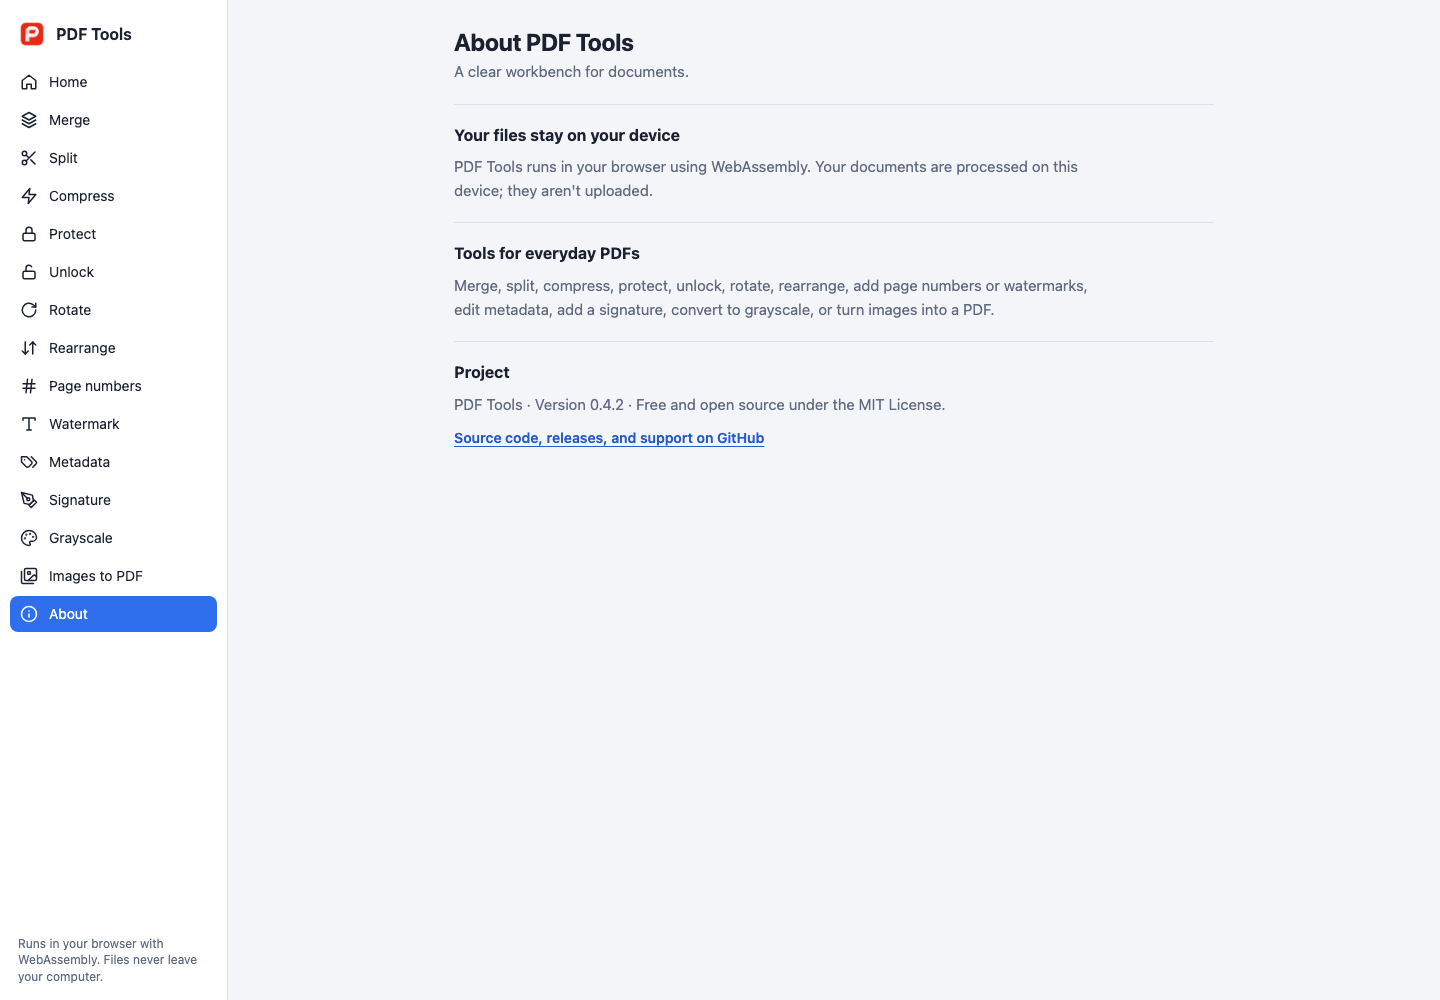
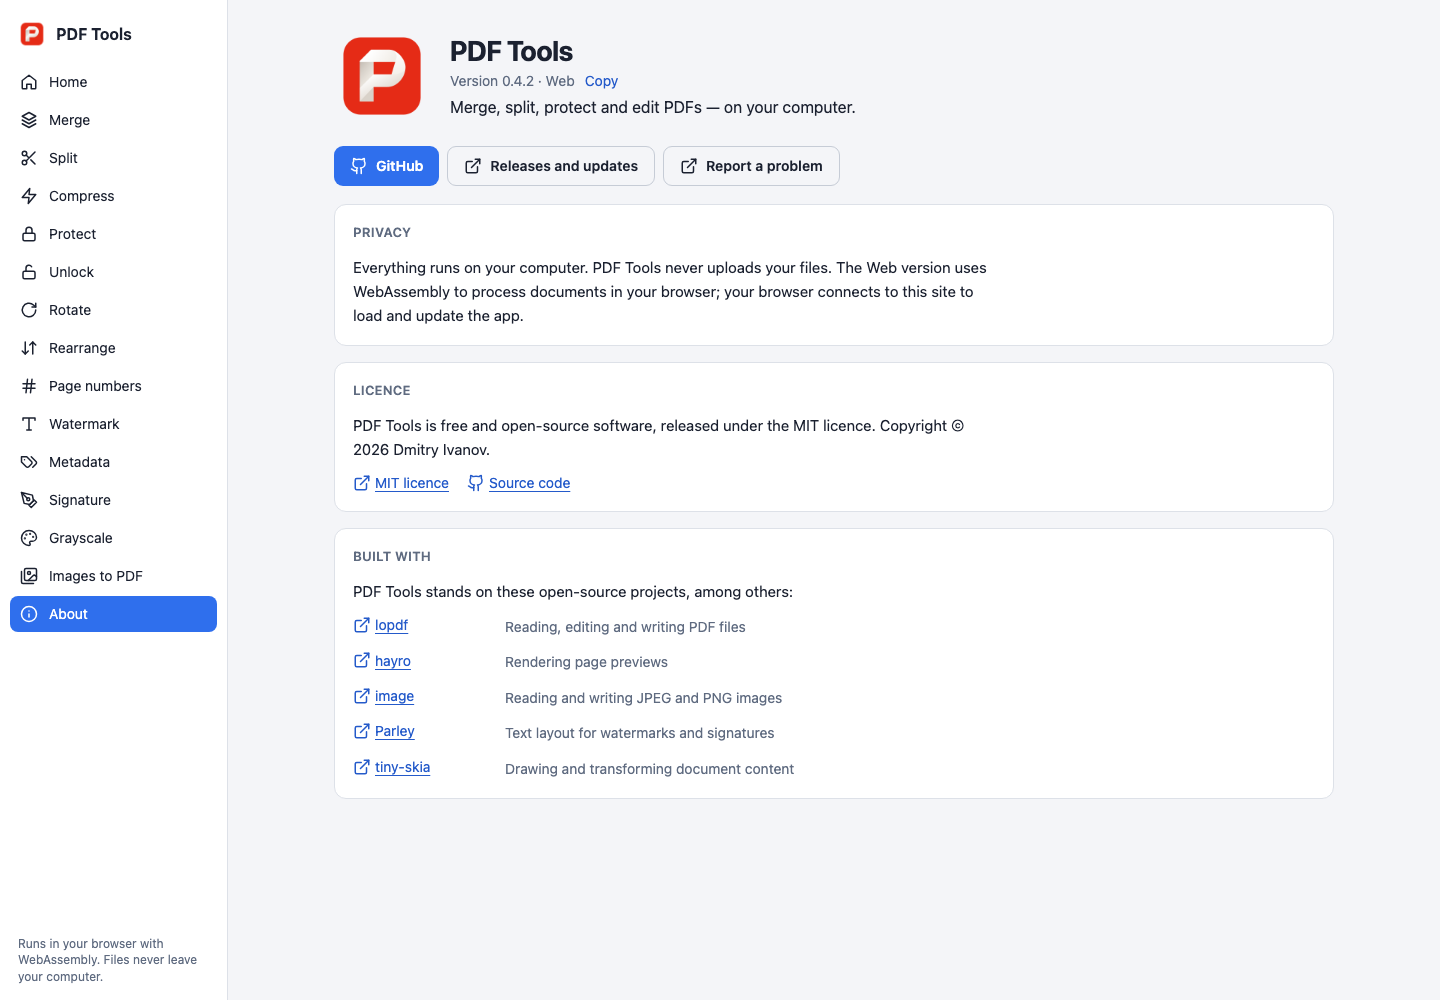
Align Web About with desktop

Changed region(s): [[0.25, 0.217, 0.75, 0.496], [0.2188, 0.031, 0.75, 0.217], [0.25, 0.589, 0.5625, 0.775]]

diff --git a/web/app.js b/web/app.js
@@ -64,24 +64,66 @@ function showAbout({ push = true } = {}) {
   current = null;
   currentPage = "about";
   setRoute(null, push, "about");
+  const copyText = `PDF Tools ${VERSION} (Web)`;
+  const copyStatus = h("span", { className: "about-copy-status", role: "status", "aria-live": "polite" });
+  const copyButton = h("button", {
+    type: "button",
+    className: "about-copy",
+    onClick: async () => {
+      try {
+        await navigator.clipboard.writeText(copyText);
+        copyButton.textContent = "Copied";
+        copyStatus.textContent = "Version copied to clipboard.";
+      } catch {
+        copyStatus.textContent = "Clipboard access isn't available in this browser.";
+      }
+    },
+  }, "Copy");
+  const externalLink = (label, url, iconName = "external") =>
+    h("a", { href: url, target: "_blank", rel: "noopener noreferrer" }, icon(iconName), label);
+  const credits = [
+    ["lopdf", "Reading, editing and writing PDF files", "https://crates.io/crates/lopdf"],
+    ["hayro", "Rendering page previews", "https://crates.io/crates/hayro"],
+    ["image", "Reading and writing JPEG and PNG images", "https://crates.io/crates/image"],
+    ["Parley", "Text layout for watermarks and signatures", "https://crates.io/crates/parley"],
+    ["tiny-skia", "Drawing and transforming document content", "https://crates.io/crates/tiny-skia"],
+  ];
   main.replaceChildren(
     h("article", { className: "about" },
-      h("header", { className: "page-head" },
-        h("h1", {}, "About PDF Tools"),
-        h("p", { className: "subtitle" }, "A clear workbench for documents."),
+      h("header", { className: "about-header" },
+        h("img", { className: "about-logo", src: "icon.png", alt: "" }),
+        h("div", { className: "about-identity" },
+          h("h1", {}, "PDF Tools"),
+          h("div", { className: "about-version" }, `Version ${VERSION} · Web`, copyButton, copyStatus),
+          h("p", {}, "Merge, split, protect and edit PDFs — on your computer."),
+        ),
+      ),
+      h("div", { className: "about-actions" },
+        h("a", { className: "primary", href: "https://github.com/ivadim/pdf-tools", target: "_blank", rel: "noopener noreferrer" }, icon("github"), "GitHub"),
+        h("a", { className: "secondary", href: "https://github.com/ivadim/pdf-tools/releases", target: "_blank", rel: "noopener noreferrer" }, icon("external"), "Releases and updates"),
+        h("a", { className: "secondary", href: "https://github.com/ivadim/pdf-tools/issues/new", target: "_blank", rel: "noopener noreferrer" }, icon("external"), "Report a problem"),
       ),
       h("section", { className: "about-section" },
-        h("h2", {}, "Your files stay on your device"),
-        h("p", {}, "PDF Tools runs in your browser using WebAssembly. Your documents are processed on this device; they aren't uploaded."),
+        h("h2", {}, "Privacy"),
+        h("p", {}, "Everything runs on your computer. PDF Tools never uploads your files. The Web version uses WebAssembly to process documents in your browser; your browser connects to this site to load and update the app."),
       ),
       h("section", { className: "about-section" },
-        h("h2", {}, "Tools for everyday PDFs"),
-        h("p", {}, "Merge, split, compress, protect, unlock, rotate, rearrange, add page numbers or watermarks, edit metadata, add a signature, convert to grayscale, or turn images into a PDF."),
+        h("h2", {}, "Licence"),
+        h("p", {}, "PDF Tools is free and open-source software, released under the MIT licence. Copyright © 2026 Dmitry Ivanov."),
+        h("div", { className: "about-links" },
+          externalLink("MIT licence", "https://github.com/ivadim/pdf-tools/blob/main/LICENSE"),
+          externalLink("Source code", "https://github.com/ivadim/pdf-tools", "github"),
+        ),
       ),
-      h("section", { className: "about-section about-project" },
-        h("h2", {}, "Project"),
-        h("p", {}, `PDF Tools · Version ${VERSION} · Free and open source under the MIT License.`),
-        h("a", { href: "https://github.com/ivadim/pdf-tools", target: "_blank", rel: "noopener noreferrer" }, "Source code, releases, and support on GitHub"),
+      h("section", { className: "about-section" },
+        h("h2", {}, "Built with"),
+        h("p", {}, "PDF Tools stands on these open-source projects, among others:"),
+        h("dl", { className: "about-credits" }, credits.map(([name, purpose, url]) =>
+          h("div", { className: "about-credit" },
+            h("dt", {}, externalLink(name, url)),
+            h("dd", {}, purpose),
+          ),
+        )),
       ),
     ),
   );

diff --git a/web/style.css b/web/style.css
@@ -232,7 +232,7 @@ button {
 }
 
 #main[data-view="about"] > * {
-  max-width: 760px;
+  max-width: 1000px;
   margin-inline: auto;
 }
 
@@ -324,32 +324,134 @@ h1 {
   color: var(--muted);
 }
 
-/* About: a plain reading column using the same restrained app surfaces. */
+/* About: shared project information in the Web app's own responsive layout. */
+.about-header {
+  display: flex;
+  align-items: center;
+  gap: 20px;
+  margin-bottom: 22px;
+}
+
+.about-logo {
+  width: 96px;
+  height: 96px;
+  flex: none;
+}
+
+.about-identity h1 {
+  margin: 0 0 4px;
+  font-size: 28px;
+  line-height: 1.2;
+  letter-spacing: -0.02em;
+}
+
+.about-identity > p {
+  margin: 5px 0 0;
+  font-size: 16px;
+}
+
+.about-version {
+  display: flex;
+  align-items: center;
+  gap: 10px;
+  color: var(--muted);
+}
+
+.about-copy {
+  min-height: 0;
+  padding: 0;
+  border: 0;
+  background: none;
+  color: var(--install-text);
+  cursor: pointer;
+}
+
+.about-copy-status {
+  font-size: 12px;
+}
+
+.about-actions {
+  display: flex;
+  flex-wrap: wrap;
+  gap: 8px;
+  margin-bottom: 18px;
+}
+
+.about-actions a {
+  display: inline-flex;
+  align-items: center;
+  gap: 8px;
+  text-decoration: none;
+}
+
+.about-actions .secondary {
+  color: var(--text);
+}
+
 .about-section {
-  padding-block: 20px;
-  border-top: 1px solid var(--line);
+  margin-bottom: 16px;
+  padding: 18px;
+  border: 1px solid var(--line);
+  border-radius: 12px;
+  background: var(--panel);
 }
 
 .about-section h2 {
-  margin: 0 0 8px;
-  font-size: 16px;
-  line-height: 1.35;
+  margin: 0 0 14px;
+  color: var(--muted);
+  font-size: 13px;
+  font-weight: 600;
+  letter-spacing: 0.02em;
+  text-transform: uppercase;
 }
 
 .about-section p {
   max-width: 68ch;
   margin: 0;
-  color: var(--muted);
   font-size: 15px;
   line-height: 1.6;
 }
 
-.about-project a {
-  display: inline-block;
+.about-links {
+  display: flex;
+  flex-wrap: wrap;
+  gap: 18px;
   margin-top: 12px;
+}
+
+.about-links a,
+.about-credit dt a {
   color: var(--install-text);
-  font-weight: 600;
   text-underline-offset: 3px;
+}
+
+.about-links a,
+.about-credit dt a {
+  display: inline-flex;
+  align-items: center;
+  gap: 4px;
+}
+
+.about-credits {
+  display: grid;
+  gap: 12px;
+  margin: 12px 0 0;
+}
+
+.about-credit {
+  display: grid;
+  grid-template-columns: 140px minmax(0, 1fr);
+  align-items: center;
+  gap: 12px;
+}
+
+.about-credit dt,
+.about-credit dd {
+  margin: 0;
+}
+
+.about-credit dd {
+  color: var(--muted);
 }
 
 /* ── Tool layout ─────────────────────────────────────────────────────── */
